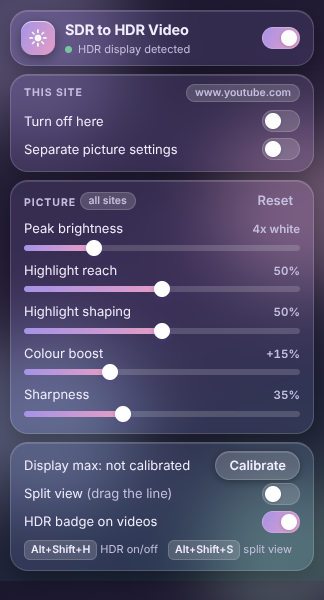
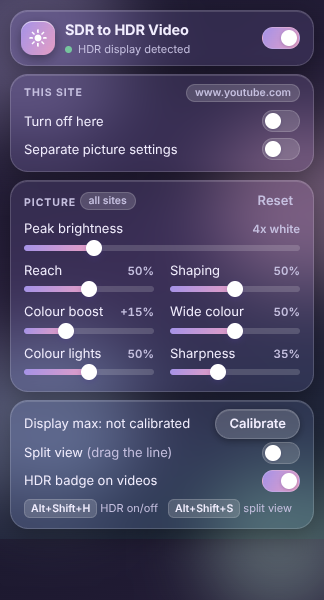
v0.6.0: wide colour and colour lights

Changed region(s): [[0.0309, 0.42, 0.9877, 0.96], [0.8333, 0.57, 0.8642, 0.6]]

diff --git a/shader.js b/shader.js
@@ -155,7 +155,9 @@ struct U {
   soften: f32,      // 0..1, how much to shape big blown-out areas
   step: vec2f,      // sharpening tap distance in uv (one source or screen pixel)
   sharpen: f32,     // 0..1
-  p0: f32,
+  gamut: f32,       // 0..1, how far vivid colours are stretched toward the P3 edge
+  vivid: f32,       // 0..1, how much coloured lights are boosted like white ones
+  p1: f32, p2: f32, p3: f32,
 };
 @group(0) @binding(0) var<uniform> u: U;
 @group(0) @binding(1) var samp: sampler;
@@ -199,13 +201,13 @@ const TO_P3 = mat3x3f(
   vec3f(0.1774, 0.9669, 0.0724),
   vec3f(0.0000, 0.0000, 0.9108));
 
-// lin:      linear pixel
+// d:        the pixel's brightness for expansion purposes, 0..1 (see fs)
 // coverage: 0 = isolated highlight (sparkle, lamp), 1 = part of a big or
 //           dense bright region (sky, white page, a line of subtitles)
 // scene:    smoothed average luminance of the whole frame
-fn expansionGain(lin: vec3f, coverage: f32, scene: f32) -> f32 {
+fn expansionGain(d: f32, coverage: f32, scene: f32) -> f32 {
   // Leave shadows, midtones and skin alone; only the top of the range expands.
-  let x = clamp((drive(lin) - 0.2) / 0.8, 0.0, 1.0);
+  let x = clamp((d - 0.2) / 0.8, 0.0, 1.0);
 
   // Dark scenes: let the expansion reach a little further down.
   let reach = clamp(u.strength + 0.15 * (1.0 - smoothstep(0.03, 0.15, scene)), 0.0, 1.0);
@@ -325,13 +327,32 @@ fn fs(in: VOut) -> @location(0) vec4f {
   // by the pixel's own clipped-ness so real detail is untouched.
   let shape = 1.0 + 0.8 * u.soften * clipped(lin) * coverage * (clipDepth(in.uv) - 0.5);
   // Never let the shaping push a highlight below plain SDR white.
-  let gain = max(1.0, expansionGain(lin, coverage, scene) * shape);
+  let skin = skinMask(smoothed);
 
-  var hdr = max(TO_P3 * lin, vec3f(0.0)) * gain;
+  // Coloured lights. Plain luminance rates a pure red or blue as dim, so a
+  // neon sign or brake light would get a fraction of the boost a white lamp
+  // does. Leaning on the brightest channel instead lets them expand too. At
+  // 0 this is the original half-and-half mix; at 1 a fully saturated light
+  // is boosted as much as a white one. Skin is kept on the original mix.
+  let lean = mix(0.5, 1.0, u.vivid * (1.0 - skin));
+  let bright = mix(luma709(lin), maxc(lin), lean);
+  let gain = max(1.0, expansionGain(bright, coverage, scene) * shape);
+
+  // Wide colour. Converting Rec.709 to P3 exactly leaves every colour where
+  // it was, well inside what a P3 display can show. For vivid colours, blend
+  // toward reading the same numbers as P3 directly, which slides them out
+  // toward the P3 edge: at full strength a pure Rec.709 red becomes a pure
+  // P3 red. Greys are identical either way, muted colours are left alone,
+  // and skin is excluded.
+  let s8 = clamp(smoothed, vec3f(0.0), vec3f(1.0));
+  let vividness = (maxc(s8) - min(s8.r, min(s8.g, s8.b))) / max(maxc(s8), 0.0001);
+  let stretch = u.gamut * smoothstep(0.3, 0.8, vividness) * (1.0 - skin);
+
+  var hdr = max(mix(TO_P3 * lin, lin, stretch), vec3f(0.0)) * gain;
 
   // Colour boost, done in P3 so it can push past the Rec.709 gamut. Skin
   // tones get almost none of it, so faces don't go orange.
-  let sat = 1.0 + (u.sat - 1.0) * (1.0 - 0.9 * skinMask(smoothed));
+  let sat = 1.0 + (u.sat - 1.0) * (1.0 - 0.9 * skin);
   let yh = lumaP3(hdr);
   hdr = rollOff(max(mix(vec3f(yh), hdr, sat), vec3f(0.0)));
 

diff --git a/popup.html b/popup.html
@@ -29,6 +29,8 @@
   .row.plain { cursor: default; }
 
   .slider { padding: 3px 0 2px; }
+  .pair { display: grid; grid-template-columns: 1fr 1fr; column-gap: 16px; }
+  .pair .slider { min-width: 0; }
   .slider label { display: flex; justify-content: space-between; align-items: baseline; margin-bottom: 1px; }
   .val { font-size: 11.5px; font-weight: 600; color: var(--ink-soft); font-variant-numeric: tabular-nums; }
 
@@ -69,21 +71,31 @@
         <label for="peak"><span>Peak brightness</span><span class="val" id="peakVal"></span></label>
         <input type="range" id="peak" min="1.5" max="12" step="0.5">
       </div>
-      <div class="slider">
-        <label for="strength"><span>Highlight reach</span><span class="val" id="strengthVal"></span></label>
-        <input type="range" id="strength" min="0" max="1" step="0.05">
-      </div>
-      <div class="slider">
-        <label for="soften"><span>Highlight shaping</span><span class="val" id="softenVal"></span></label>
-        <input type="range" id="soften" min="0" max="1" step="0.05">
-      </div>
-      <div class="slider">
-        <label for="sat"><span>Colour boost</span><span class="val" id="satVal"></span></label>
-        <input type="range" id="sat" min="1" max="1.5" step="0.05">
-      </div>
-      <div class="slider">
-        <label for="sharpen"><span>Sharpness</span><span class="val" id="sharpenVal"></span></label>
-        <input type="range" id="sharpen" min="0" max="1" step="0.05">
+      <div class="pair">
+        <div class="slider" title="How far down the tonal range the brightening extends">
+          <label for="strength"><span>Reach</span><span class="val" id="strengthVal"></span></label>
+          <input type="range" id="strength" min="0" max="1" step="0.05">
+        </div>
+        <div class="slider" title="Gives big blown-out areas a gradient instead of a flat patch">
+          <label for="soften"><span>Shaping</span><span class="val" id="softenVal"></span></label>
+          <input type="range" id="soften" min="0" max="1" step="0.05">
+        </div>
+        <div class="slider" title="Extra saturation; skin tones are mostly left alone">
+          <label for="sat"><span>Colour boost</span><span class="val" id="satVal"></span></label>
+          <input type="range" id="sat" min="1" max="1.5" step="0.05">
+        </div>
+        <div class="slider" title="Stretches vivid colours out toward the edge of the wider P3 gamut">
+          <label for="gamut"><span>Wide colour</span><span class="val" id="gamutVal"></span></label>
+          <input type="range" id="gamut" min="0" max="1" step="0.05">
+        </div>
+        <div class="slider" title="Lets coloured lights (neon, brake lights, fire) get boosted like white ones">
+          <label for="vivid"><span>Colour lights</span><span class="val" id="vividVal"></span></label>
+          <input type="range" id="vivid" min="0" max="1" step="0.05">
+        </div>
+        <div class="slider" title="Contrast-adaptive sharpening">
+          <label for="sharpen"><span>Sharpness</span><span class="val" id="sharpenVal"></span></label>
+          <input type="range" id="sharpen" min="0" max="1" step="0.05">
+        </div>
       </div>
     </section>
 

diff --git a/content.js b/content.js
@@ -5,7 +5,7 @@
   if (window.__sdr2hdrLoaded) return;
   window.__sdr2hdrLoaded = true;
 
-  const DEFAULTS = { enabled: true, peak: 4, strength: 0.5, sat: 1.15, soften: 0.5, sharpen: 0.35,
+  const DEFAULTS = { enabled: true, peak: 4, strength: 0.5, sat: 1.15, soften: 0.5, sharpen: 0.35, gamut: 0.5, vivid: 0.5,
     split: false, splitPos: 0.5, badge: true,
     headroom: 0,   // display maximum from the calibration page; 0 = not calibrated
     sites: {},     // per-site overrides, keyed by hostname
@@ -212,7 +212,7 @@
       this.sv = views.slice(n);
       this.si = 0;              // which scene texture holds the current value
 
-      this.udata = new Float32Array(16);
+      this.udata = new Float32Array(20);
       this.sdata = new Float32Array(4);
       const ub = (data) => device.createBuffer({
         size: data.byteLength,
@@ -405,6 +405,8 @@
       u[12] = Math.max(u[2], 1 / (this.canvas.width * this.scale[0]));
       u[13] = Math.max(u[3], 1 / (this.canvas.height * this.scale[1]));
       u[14] = settings.sharpen;
+      u[15] = settings.gamut;
+      u[16] = settings.vivid;
       device.queue.writeBuffer(this.ubuf, 0, u);
 
       const enc = device.createCommandEncoder();
@@ -511,7 +513,7 @@
     const site = (stored.sites && stored.sites[SITE]) || {};
     settings = { ...stored };
     if (site.custom) {
-      for (const k of ['peak', 'strength', 'sat', 'soften', 'sharpen']) if (typeof site[k] === 'number') settings[k] = site[k];
+      for (const k of ['peak', 'strength', 'sat', 'soften', 'sharpen', 'gamut', 'vivid']) if (typeof site[k] === 'number') settings[k] = site[k];
     }
     siteOff = !!site.off;
     scan();

diff --git a/popup.js b/popup.js
@@ -1,9 +1,9 @@
 const DEFAULTS = {
-  enabled: true, peak: 4, strength: 0.5, sat: 1.15, soften: 0.5, sharpen: 0.35,
+  enabled: true, peak: 4, strength: 0.5, sat: 1.15, soften: 0.5, sharpen: 0.35, gamut: 0.5, vivid: 0.5,
   split: false, splitPos: 0.5, badge: true,
   headroom: 0, sites: {},
 };
-const PICTURE = ['peak', 'strength', 'soften', 'sat', 'sharpen'];
+const PICTURE = ['peak', 'strength', 'soften', 'sat', 'gamut', 'vivid', 'sharpen'];
 const $ = (id) => document.getElementById(id);
 
 const pct = (v) => `${Math.round(v * 100)}%`;
@@ -12,6 +12,8 @@ const fmt = {
   strength: pct,
   soften: (v) => (v > 0 ? pct(v) : 'Off'),
   sat: (v) => (v > 1 ? `+${Math.round((v - 1) * 100)}%` : 'Off'),
+  gamut: (v) => (v > 0 ? pct(v) : 'Off'),
+  vivid: (v) => (v > 0 ? pct(v) : 'Off'),
   sharpen: (v) => (v > 0 ? pct(v) : 'Off'),
 };
 

diff --git a/README.md b/README.md
@@ -45,9 +45,11 @@ If your monitor does its own tone mapping, the cross may never vanish completely
 | Slider | Range | Default | What it does |
 |---|---|---|---|
 | Peak brightness | 1.5x to 12x | 4x | How bright the brightest highlights get, as a multiple of normal SDR white. |
-| Highlight reach | 0 to 100% | 50% | How far down the tonal range the brightening extends. Higher lifts more of the picture. |
-| Highlight shaping | Off to 100% | 50% | Gives big blown-out areas a gradient (dimmer rim, brighter middle) so they look like light instead of a flat patch. |
+| Reach | 0 to 100% | 50% | How far down the tonal range the brightening extends. Higher lifts more of the picture. |
+| Shaping | Off to 100% | 50% | Gives big blown-out areas a gradient (dimmer rim, brighter middle) so they look like light instead of a flat patch. |
 | Colour boost | Off to +50% | +15% | Extra saturation, reaching into the wider Display P3 gamut. Skin tones are mostly excluded. |
+| Wide colour | Off to 100% | 50% | Stretches already-vivid colours out toward the edge of the P3 gamut. Muted colours, greys and skin stay put. |
+| Colour lights | Off to 100% | 50% | Lets coloured highlights (neon, brake lights, fire) get a brightness boost closer to what white ones get. |
 | Sharpness | Off to 100% | 35% | Contrast-adaptive sharpening. |
 
 **Reset** restores the picture defaults.
@@ -98,6 +100,7 @@ Each frame goes through six shader passes:
    - debands, filling in the in-between shades that 8-bit video can't store, so smooth gradients don't show steps once stretched;
    - expands brightness. Shadows, midtones and skin are left alone; only the top of the range is pushed up. Small isolated highlights get the full peak, large bright areas get less than half, and bright scenes get less than dark ones;
    - shapes blown-out areas with a rim-to-centre gradient;
+   - widens colour: vivid colours are stretched toward the P3 edge, and coloured lights get more of the brightness boost;
    - boosts colour, skipping skin tones;
    - rolls off anything brighter than the display can show.
 
@@ -108,7 +111,7 @@ There is no ML in this extension. If you want to add some, `expansionGain()` in 
 ## Known limitations
 
 - **Bright text baked into the video** (burned-in subtitles, logos) is toned down but still brighter than ideal. Captions drawn by the site itself, such as YouTube's, are not affected.
-- **White-background content** such as screen recordings may show a visible gradient near the edges of white areas. Lower **Highlight shaping** or turn it off for that site.
+- **White-background content** such as screen recordings may show a visible gradient near the edges of white areas. Lower **Shaping** or turn it off for that site.
 - **Skin protection is by colour**, so wood, sand and other skin-coloured things also miss out on the colour boost.
 - **Blown-out detail stays lost.** The extension shapes clipped areas but cannot recover what was in them.
 - **Native fullscreen.** When a site fullscreens the bare video element with the browser's built-in controls, the bottom strip of the picture shows the unconverted video while those controls are visible.
@@ -121,6 +124,7 @@ There is no ML in this extension. If you want to add some, `expansionGain()` in 
 | No HDR badge appears | HDR is off in your OS display settings, the video is DRM-protected or already HDR, or the extension is off for this site. The popup's status line reports a missing HDR display or WebGPU. |
 | Picture looks washed out or far too bright | **Peak brightness** is above what your display can show and it hasn't been calibrated. Run **Calibrate**. |
 | Faces look orange | Lower **Colour boost**. |
+| Colours look neon or cartoonish | Lower **Wide colour** and **Colour lights**. |
 | Halos or crunchy edges | Lower **Sharpness**, especially on low-bitrate video. |
 | Shortcuts do nothing | Assign them at `chrome://extensions/shortcuts`. |
 | Overlay is misaligned on one site | The site positions its video unusually. Use **Turn off here** for that site. |
